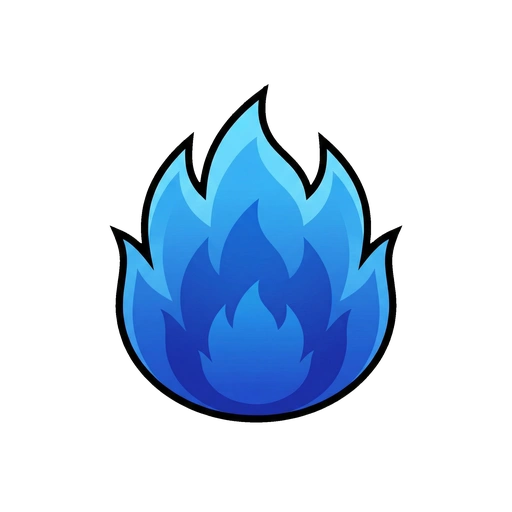
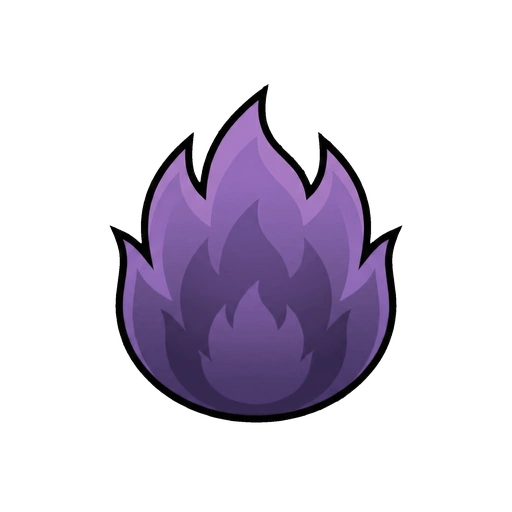
オーラの色をわかりやすく変更。アニメーションをだんだん早くなるように調整 仕様書を更新

Changed region(s): [[0.2188, 0.1875, 0.7812, 0.8125]]

diff --git a/js/game.js b/js/game.js
@@ -1288,18 +1288,24 @@ class Game {
         if (!auraEl) return;
 
         let auraFile = null;
+        let animDuration = '1.5s'; // 基準
         if (this.specialMoveReady) {
             auraFile = 'ora04.webp';
+            animDuration = '0.5s';
         } else if (this.dodgeStreak >= 3) {
             auraFile = 'ora03.webp';
+            animDuration = '1.5s';
         } else if (this.dodgeStreak >= 2) {
             auraFile = 'ora02.webp';
+            animDuration = '2.5s';
         } else if (this.dodgeStreak >= 1) {
             auraFile = 'ora01.webp';
+            animDuration = '3.5s';
         }
 
         if (auraFile) {
             auraEl.src = `assets/image/other/${auraFile}`;
+            auraEl.style.animationDuration = animDuration;
             auraEl.style.display = 'block';
         } else {
             auraEl.style.display = 'none';

diff --git a/仕様書.md b/仕様書.md
@@ -5,107 +5,133 @@
 
 ## 2. 画面とメニューの仕様
 
-### 2.1 タイトル・セットアップ画面
+### 2.1 画面の自動調整（レスポンシブ）
+* 画面の向き（縦向き・横向き）を自動で検知し、最適なレイアウトに調整されます。
+* ブラウザのサイズに合わせて、常に画面中央にスケーリングして表示されます。
+
+### 2.2 タイトル・セットアップ画面
 ゲーム開始前に、以下の設定を行います。
 * **なまえ**: プレイヤーの名前を入力します（最大10文字。入力内容は保存されます）。
-* **ひだりのけた / みぎのけた**: 計算問題の左側と右側の数字の桁数（1けた・2けた）を選択します。
+* **ひだりのけた / みぎのけた**: 計算問題の左側と右側の数字の桁数（1けた・2けた）を選択します。これによりゲーム全体の難易度が決まります。
 * **けいさんのしゅるい**: 足し算（＋）、引き算（－）、掛け算（×）、割り算（÷）の中から、出題される計算の種類を複数選択できます。
 
 また、以下のサブメニューへアクセス可能です。
 * **モンスターノート**: 倒したモンスターの図鑑を確認できます。
-* **アイデアを おくる**: モンスターなどのアイデアを送信できるフォームが開きます。
+* **アイデアを おくる**: モンスターなどのアイデアを送信できるフォーム（Googleフォーム連携）が開きます。
 
-### 2.2 リザルト画面
+### 2.3 リザルト画面
 全10戦をクリアすると表示されます。
 * **合計タイム**: 全モンスターを倒すのにかかった合計時間が表示されます。
-* **撃破タイム一覧**: 各モンスターごとの撃破タイムが表示されます。一番早かったタイムは「さいそくタイム」として強調されます。
-* **画像拡大**: 各カードをタップすると、モンスターの画像が拡大され、討伐数などの詳細な記録が表示されます。
+* **撃破タイム一覧**: 各モンスターごとの名前、画像、撃破タイムが表示されます。一番早かったタイムは「さいそくタイム」として強調されます。
+* **画像拡大**: 各カードをタップすると、モンスターの画像が拡大され、合計討伐数などの詳細な記録が表示されます。
 
-### 2.3 モンスターノート（図鑑）
+### 2.4 モンスターノート（図鑑）
 * 過去に倒したモンスターが一覧で表示されます。未討伐のモンスターはシルエットと「？？？」で表示されます。
-* **カテゴリ分け**: ボス、かいふく、レア、およびステージ番号によって自動で整理されます。
-* **セーブ＆ロード機能**: ブラウザの履歴を消しても進行状況を復元できるよう、データをJSON形式で「ほぞん（書き出し）」および「よみこむ（読み込み）」ことができます。
-* **改ざん検知**: 保存データにはチェックサム（16進数8桁）が付与され、データの改ざんを検知する機能があります。
+* **カテゴリ分け**: ボス、かいふく、レア、およびステージ番号（1ばん〜9ばん）によって自動で整理されます。
+* **詳細記録**: 画像をタップすると、そのモンスターの「最速撃破タイム」と「合計討伐数」を確認できます。
+* **バックアップ機能**:
+    * **ほぞん（書き出し）**: 図鑑データをJSON形式でファイルとして保存できます。
+    * **よみこむ（読み込み）**: 保存したファイルを読み込んで進行状況を復元できます。
+* **改ざん検知**: 保存データにはチェックサムが付与され、不正なデータの読み込みを検知する機能があります。
 
 ## 3. バトルシステム
 
-### 3.1 ターンの進行とタイマー
-バトルはプレイヤーとモンスターが交互に行動するターン制です。プレイヤーの最大HPは「10」です。
+### 3.1 ターンの進行
+バトルはプレイヤーとモンスターが交互に行動するターン制です。
 
 * **プレイヤーのターン**:
     * 10秒間のタイマーバーが表示されます。
     * 正解した場合、モンスターにダメージを与えます。回答時間が**3.0秒以内**だった場合は「クリティカル」となり、ダメージが増加します。
-    * 不正解の場合、攻撃はミスとなり、モンスターのターンに移行します。
+    * 不正解の場合、攻撃はミス（モンスターが回避）となり、モンスターのターンに移行します。
 * **モンスターのターン**:
     * 20秒間のタイマーバーが表示されます。
     * 正解した場合、モンスターの攻撃を「よけた」ことになり、ダメージを受けずに再びプレイヤーのターンに戻ります。
     * 不正解、または20秒経過した場合、モンスターからダメージを受けます。
 
-### 3.2 連続回避と必殺技
-* モンスターターンの問題に正解（攻撃を回避）するたびに、プレイヤーにオーラが溜まります。
+### 3.2 連続回避と必殺技（オーラ）
+* モンスターターンの問題に正解（回避）するたびに、プレイヤーにオーラが溜まります。
 * 4回連続で回避するとオーラが最大になり、「必殺技」が発動可能な状態になります。
 * 必殺技待機状態でプレイヤーが正解すると、与えるダメージが**2倍**になります。
-* ダメージを受けたり時間切れになると、オーラはリセットされます。
+* **維持条件**: ダメージを受けたり時間切れになるとオーラはリセットされますが、**盾を装備している場合は、ダメージを軽減した際もオーラが維持されます。**
 
 ### 3.3 ダメージの計算
 * **プレイヤーの攻撃**:
-    * 通常正解：(1ダメージ × クリティカル補正) ＋ 武器のボーナス
+    * 計算式：`((基本1 × クリティカル補正) + 武器のボーナス) × 必殺技補正`
     * クリティカル（3秒以内）：補正として基本ダメージが2倍
-    * 必殺技発動時：上記最終計算結果を2倍
+    * 必殺技発動時：上記計算結果をさらに2倍
 * **モンスターの攻撃**:
-    * モンスターの攻撃力 － 盾の軽減値 ＝ 受けるダメージ
+    * 計算式：`モンスターの攻撃力 - 盾の軽減値`（最低0ダメージ）
 
 ### 3.4 計算問題の出題仕様
 * **足し算 / 引き算**: 指定した桁数でランダムに出題されます。引き算の答えがマイナスになることはありません。
 * **掛け算**: 指定した桁数でランダムに出題されます。
-* **割り算**: 必ず割り切れる問題が出題され、答え（商）は「2」以上（ボスの場合は「5」以上）になります。
+* **割り算**: 必ず割り切れる問題が出題され、答え（商）は「2」以上になります（ボスの場合は「5」以上）。
 * **ボスの問題**: 足し算・引き算は必ず「繰り上がり・繰り下がり」が発生する問題になります。
 
 ## 4. 装備とアイテムドロップ
-特定のモンスターを倒すと、武器（けん）や防具（たて）を自動的に入手・装備します。
+特定のモンスターを倒すと、武器（けん）や防具（たて）をドロップし、自動的に装備します。
 
 ### 4.1 武器（けん）
-1. **ぼう**（初期）：ボーナス +0
-2. **どうのけん**：ボーナス +1
-3. **てつのけん**：ボーナス +2
-4. **はがねのけん**：ボーナス +3
-5. **きんのけん**：ボーナス +4
+現在の所持レベルより1段階上の剣をドロップします（レアモンスターは2段階上の場合あり）。
+1. **ぼう**: ボーナス +0
+2. **どうのけん**: ボーナス +1
+3. **てつのけん**: ボーナス +2
+4. **はガねのけん**: ボーナス +3
+5. **きんのけん**: ボーナス +4
 
 ### 4.2 防具（たて）
-盾はダメージを軽減しますが、攻撃を防ぐたびに耐久度が減り、0になると壊れてなくなります。
-1. **きのたて**：軽減 1 / 耐久 1回
-2. **どうのたて**：軽減 2 / 耐久 2回
-3. **てつのたて**：軽減 3 / 耐久 3回
-4. **はがねのたて**：軽減 4 / 耐久 4回
-5. **きんのたて**：軽減 5 / 耐久 5回
+盾はダメージを軽減しますが、攻撃を防ぐたびに耐久度が1減り、0になると壊れてなくなります。
+1. **きのたて**: 軽減 1 / 耐久 1回
+2. **どうのたて**: 軽減 2 / 耐久 2回
+3. **てつのたて**: 軽減 3 / 耐久 3回
+4. **はがねのたて**: 軽減 4 / 耐久 4回
+5. **きんのたて**: 軽減 5 / 耐久 5回
 
-### 4.3 ドロップ率
-現在の所持レベルに応じて、次の段階の装備が落ちる確率が設定されています。
+### 4.3 ドロップ率（通常モンスター）
+現在のレベルに応じて、次の段階の装備が落ちる確率が決まっています。
 
 | 現在のレベル | 剣のドロップ率 | 盾のドロップ率 |
 | :--- | :--- | :--- |
-| レベル0 (なし/ぼう) | 60% | 40% |
+| なし / ぼう (L0) | 60% | 40% |
 | レベル1 | 40% | 25% |
 | レベル2 | 20% | 15% |
 | レベル3 | 10% | 7% |
 | レベル4 | 4% | 3% |
-| レベル5 | 0% (最大) | 0% (最大) |
+| レベル5 | - | 0% (最大) |
 
 ## 5. モンスターの仕様と特殊行動
 
-### 5.1 ステージ進行
-* **1〜4戦目**: 攻撃力 1 / HPはステージ数と同じ（最大HP 4）
-* **5〜7戦目**: 攻撃力 2 / HPはステージ数と同じ（最大HP 7）
-* **8〜9戦目**: 攻撃力 3 / HPはステージ数と同じ（最大HP 9）
-* **10戦目（ボス）**: 攻撃力 4 / HPは難易度設定により 10, 12, 14, 16 のいずれか
+### 5.1 ステージ進行（HP・攻撃力）
+モンスターのステータスは、現在のステージ番号（1〜10）によって決まります。
+
+| ステージ | モンスターHP | 攻撃力 | 備考 |
+| :--- | :--- | :--- | :--- |
+| 1 | 1 | 1 | |
+| 2 | 3 | 1 | |
+| 3 | 4 | 1 | |
+| 4 | 5 | 2 | |
+| 5 | 7 | 2 | |
+| 6 | 8 | 2 | |
+| 7 | 9 | 3 | |
+| 8 | 11 | 3 | |
+| 9 | 12 | 3 | |
+| 10 (Boss) | 13 〜 20 | 4 〜 7 | 難易度（桁数・種類）により変動 |
 
 ### 5.2 特殊モンスター
-* **レアモンスター**: 出現率 約2%。倒すと剣・盾のアップグレード（2段階上が可能なら2段階、そうでなければ1段階）が確定でドロップします。
-* **回復モンスター**: HPが半分以下の時に20%の確率で出現。倒すとプレイヤーのHPが全回復し、盾が確定でドロップします。
+* **レアモンスター**: 出現率 約2%。倒すと剣・盾のアップグレード（最大2段階）が確定でドロップします。
+* **回復モンスター**: プレイヤーのHPが半分以下の時に20%の確率で出現。倒すとプレイヤーのHPが全回復し、盾（最大2段階上）が確定でドロップします。
 
-### 5.3 ボスモンスター（10戦目）
-* **特定ボスの行動**:
-    * **モンスター #15**: HPが5未満になると「肉」を食べ、HPを16まで回復させます（一度のみ）。
-    * **モンスター #16**: HPが6以下になると「樹液」を舐め、HPを16まで回復させます（一度のみ）。
-* **真の姿（最高難易度）**:
-    * モンスター #16がHP 4以下になると変身。HP 20に全回復し、攻撃力が 10 に上昇します。名称が「しんのかみ」に変化します。
+### 5.3 ヤン系モンスターの解放
+特定のモンスター（ヤン系）は、図鑑の登録状況に応じて段階的に出現するようになります。
+* 出現順：ヤンダ → ヤンピ → ヤンチ → ヤント → ヤンダバーン → ヤンピバーン → ヤンチバーン → ヤントバーン → ヤンチヤントバーン
+
+### 5.4 ボスモンスター（10戦目）の特殊行動
+特定のボスは、HPが減ると特殊な行動をとります。
+* **ぼうくんティラノザ**: HP 5未満になると「にく」を食べ、HPを全回復します（一度のみ）。
+* **じゅえき剥ぎ（仮）**: HP 6以下になると「じゅえき」を舐め、HPを全回復します（一度のみ）。
+* **しんのかみ（最高難易度想定）**:
+    * 第1段階：HP 4以下になると変身。
+    * 第2段階：HP 25に全回復し、攻撃力が 10 に上昇、名称が「しんのかみ」に変化します。
+* **ヤンチヤントバーン**:
+    * 第1段階：HP 5以下になると気合でHPを全回復します。
+    * 第2段階：全回復後、再びHP 5以下になると「ぼろぼろのヤンダ」に変化（弱体化）し、HPを全回復します。
